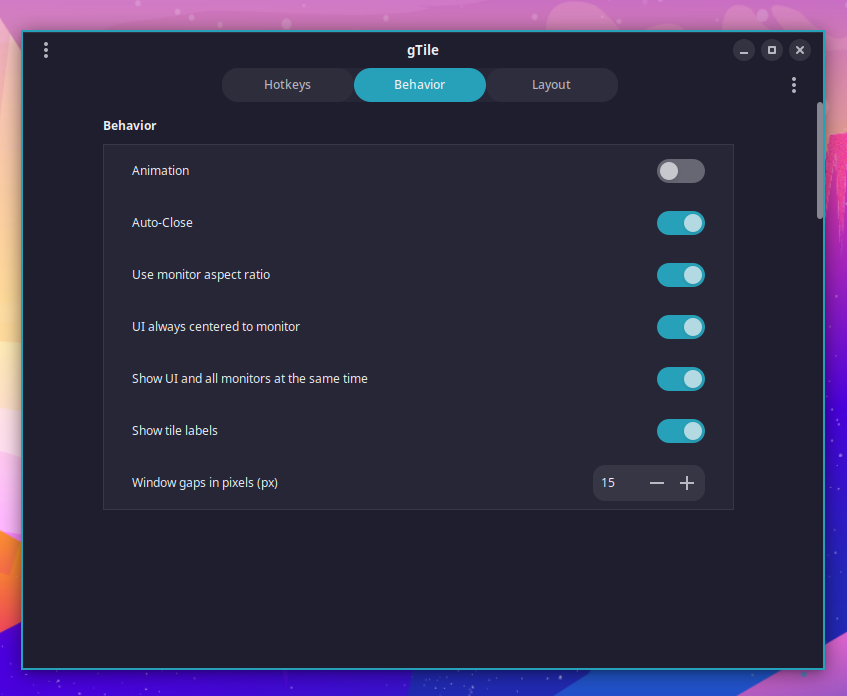
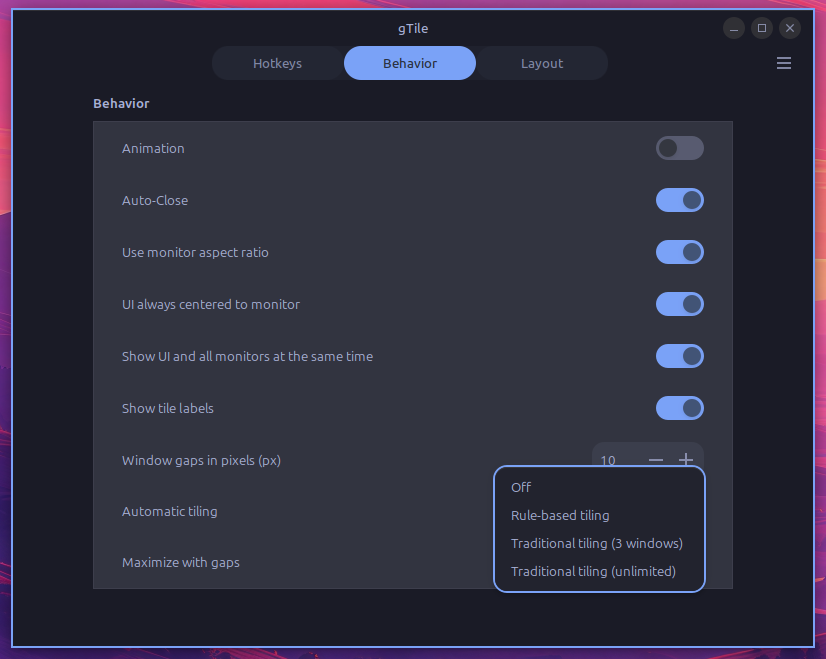
4.5.0

diff --git a/docs/virtualization.md b/docs/virtualization.md
@@ -1,6 +1,6 @@
 ## Virtualization
 
-If you'd like to run a virtual machine (VM) on your OhMyDebn installation, you can use Boxes or Virtual Machine Manager. [Boxes](https://apps.gnome.org/Boxes/) is simpler and is the recommended option for most users. If you need more flexibility, then consider [Virtual Machine Manager](https://virt-manager.org/).
+If you'd like to run a virtual machine (VM) on your OhMyDebn installation, you can use Boxes or Virtual Machine Manager. [Boxes](https://apps.gnome.org/Boxes/) is the simpler of the two, but that simplicity comes from deliberately limited control - it's a good fit for spinning up a single VM every now and then, not much more. For anything beyond that (multiple VMs, snapshot management, custom hardware configuration, or any other fine-grained control), use [Virtual Machine Manager](https://virt-manager.org/) instead.
 
 ## Boxes
 
@@ -43,4 +43,10 @@ Once you've created a VM, if you want to create a snapshot then we recommend set
 
 Virtual Machine Manager is set up to use an unprivileged, per-user connection (`qemu:///session`) rather than the traditional system-wide one. This means there's no `Virtual network 'default'` (NAT) option when creating a VM — when you reach the network selection step, choose `Usermode networking` instead.
 
-By default, `Usermode networking` uses QEMU's older built-in SLIRP driver. The `passt` package is installed automatically alongside Virtual Machine Manager and offers substantially better throughput, but it isn't used automatically — libvirt still defaults to SLIRP even with `passt` installed. To use `passt`, either create the VM with `virt-install --network type=passt` instead of the graphical wizard, or edit the VM's network device XML afterward (`virsh --connect qemu:///session edit <vm-name>`) and add `<backend type="passt"/>` inside the `<interface type="user">` element.
+By default, `Usermode networking` uses QEMU's older built-in SLIRP driver. The `passt` package is installed automatically alongside Virtual Machine Manager and offers substantially better throughput, but it isn't used automatically — libvirt still defaults to SLIRP even with `passt` installed.
+
+To upgrade an existing VM to `passt`, open the OhMyDebn menu and select `Virtualization` - `Virtual Machine Networking`. This lists every VM on the system (whether it was created with Virtual Machine Manager or Boxes) along with its current networking backend, and lets you upgrade any VM that's still using SLIRP with one click. The VM must be shut off first, since a networking backend change only takes effect the next time it starts.
+
+![OhMyDebn Virtual Machine Networking](https://raw.githubusercontent.com/dougburks/ohmydebn-docs/refs/heads/main/images/ohmydebn-virtualization-passt-upgrade.png)
+
+Alternatively, if you're creating a new VM from the command line, you can use `virt-install --network type=passt` from the start instead of the graphical wizard.

diff --git a/docs/installation.md b/docs/installation.md
@@ -16,12 +16,17 @@ bash install.sh
 
 By default, the installation script leaves existing packages like Firefox, Thunderbird, and LibreOffice in place. The installation script supports the following options:
 
-- `--power-user` - removes optional apps that ship on the base Debian 13 Cinnamon ISO (Firefox, LibreOffice, etc.) and installs a curated set of power-user extras: Boxes, Brave Origin, Claude Code, GIMP, OpenCode, Podman, keepassxc-minimal, rclone, openssh-server, pdftk-java, rsync, ethtool, traceroute, lshw, shellcheck, and iperf3. It also enables the [screen magnifier](screen-magnifier.md). On Kali Linux, Firefox is left in place even with this option since Kali doesn't ship an alternative browser by default.
+- `--power-user` - removes optional apps that ship on the base Debian 13 Cinnamon ISO (Firefox, LibreOffice, etc.) and installs a curated set of power-user extras: [Virtual Machine Manager](virtualization.md#virtual-machine-manager), Brave Origin, Claude Code, GIMP, OpenCode, Podman, keepassxc-minimal, rclone, openssh-server, pdftk-java, rsync, ethtool, traceroute, lshw, shellcheck, and iperf3. It also enables the [screen magnifier](screen-magnifier.md). On Kali Linux, Firefox is left in place even with this option since Kali doesn't ship an alternative browser by default.
 - `--yes` - skips every confirmation prompt for unattended installs (for example, scripted or automated provisioning). Everything the prompts warn about still happens; this only removes the pause to read them, so make sure you understand those warnings before using it.
 
 Example:
 ```
 bash install.sh --power-user
+```
+
+If you didn't use `--power-user` during installation but want to apply that same profile later, you don't need to reinstall - just run this from a [terminal](terminal.md) on an already-installed system:
+```
+ohmydebn-power-user-install
 ```
 ## Alternative installations
 
@@ -32,6 +37,10 @@ Instead of starting from a Debian Live 13 Cinnamon ISO image, an alternative is 
 ### Linux Mint Debian Edition 7
 
 Linux Mint Debian Edition (LMDE) 7 is based on Debian 13 and our installer allows for installation on LMDE 7.
+
+### Linux Mint 22
+
+Regular Linux Mint 22.x (the Ubuntu-based edition, on x86_64 hardware) is also supported. Once you're connected to the Internet, run our installer as shown above and it will detect Mint 22 and continue on with OhMyDebn installation.
 
 ### Kali Linux
 

diff --git a/docs/window-tiling.md b/docs/window-tiling.md
@@ -27,6 +27,7 @@ To configure gTile:
 - go to System Settings -> Extensions
 - next to gTile, click the Configure button
 - click the Behavior tab
+- from here you can adjust the window gap size, and enable Automatic tiling or Maximize with gaps (see below)
 
 ![OhMyDebn gTile settings](https://raw.githubusercontent.com/dougburks/ohmydebn-docs/refs/heads/main/images/ohmydebn-gtile-settings.png)
 
@@ -50,3 +51,16 @@ For example, to lay out windows like in the following screenshot:
 - Press `Super + F` to start the file manager and then press `Ctrl + Shift + 3` to tile to the lower right corner.
 
 ![OhMyDebn gTile window tiling with gaps](https://raw.githubusercontent.com/dougburks/ohmydebn-docs/refs/heads/main/images/ohmydebn-tiling.png)
+
+## Automatic Tiling
+
+In addition to the manual tiling options above, gTile can automatically place windows for you as they open - no hotkey required. Configure this from the same Behavior tab covered above, using the **Automatic tiling** dropdown:
+
+- **Off** (the default) - nothing is tiled automatically; only the manual hotkeys above apply.
+- **Rule-based tiling** - many of OhMyDebn's own hotkey-launched apps (like [cliamp](media.md) and [SO-CRATES](cybersecurity.md)) are automatically placed in a sensible spot as soon as they open.
+- **Traditional tiling (3 windows)** - every new window is automatically split into a tiling layout, cycling through up to 3 windows before starting over - similar to a classic tiling window manager.
+- **Traditional tiling (unlimited)** - the same idea, but keeps splitting the screen for as many windows as you open instead of cycling back to the start.
+
+## Maximize with Gaps
+
+If you'd rather your maximized windows keep the same gap as your other tiled windows instead of filling the screen edge-to-edge, enable **Maximize with gaps** on the same Behavior tab. Once enabled, clicking a window's maximize button (or double-clicking its titlebar, or pressing `Super + PageUp`) leaves a gap around the window instead of a true edge-to-edge maximize. Doing it again restores the window to its original size and position.

diff --git a/docs/utilities.md b/docs/utilities.md
@@ -22,6 +22,14 @@ To monitor your system performance, launch btop via Cinnamon menu or via [hotkey
 
 ![OhMyDebn btop](https://raw.githubusercontent.com/dougburks/ohmydebn-docs/refs/heads/main/images/ohmydebn-btop.png)
 
+## Speed Test
+
+To test your network or disk speed, open the OhMyDebn menu and choose `Trigger` - `Speed Test` - `Network Speed Test` or `Disk Speed Test`. Each shows a live dial readout while it measures, running a download/read pass followed by an upload/write pass. If you'd rather see the results in a [terminal](terminal.md) instead, run `ohmydebn-network-speedtest` or `ohmydebn-disk-speedtest`.
+
+![OhMyDebn network speed test](https://raw.githubusercontent.com/dougburks/ohmydebn-docs/refs/heads/main/images/ohmydebn-network-speedtest.png)
+
+![OhMyDebn disk speed test](https://raw.githubusercontent.com/dougburks/ohmydebn-docs/refs/heads/main/images/ohmydebn-disk-speedtest.png)
+
 ## Deskflow
 
 [Deskflow](https://github.com/deskflow/deskflow) is available as an optional installation. You can install via OhMyDebn menu (Install->Utilities). You can then run via menu and share your keyboard and mouse with other systems running Deskflow.

diff --git a/docs/faq.md b/docs/faq.md
@@ -33,6 +33,8 @@ Linux Mint is great, but there are a few reasons why the project defaults to van
 
 This doesn't apply to Linux Mint Debian Edition (LMDE), though - it's already Debian-based and already ships Cinnamon, so it's just as valid a starting point as vanilla Debian. Our [installer supports installing directly onto LMDE 7](installation.md#linux-mint-debian-edition-7) if you'd rather start there and keep Mint's extras.
 
+The x86-only limitation above does still apply to regular (Ubuntu-based) Linux Mint, but if you're already on x86_64 hardware and would rather keep Mint's extras than start from vanilla Debian, our [installer also supports installing directly onto Linux Mint 22](installation.md#linux-mint-22).
+
 
 ## What is the relationship between OhMyDebn and Security Onion?
 

diff --git a/docs/warnings.md b/docs/warnings.md
@@ -1,6 +1,6 @@
 !!! warning
     - OhMyDebn is intended for a clean new installation
-    - OhMyDebn will make changes to your APT configuration
+    - OhMyDebn will make changes to your APT configuration. Any third-party repository we add (Brave, Claude Code, etc.) is restricted via APT pinning to only the specific packages it's needed for, so it can't silently override or replace unrelated packages elsewhere on your system.
     - OhMyDebn will not remove any existing apps by default, but if you use the [`--power-user` option](installation.md#installation-options), it will remove apps like FireFox, Thunderbird, LibreOffice, and others
     - OhMyDebn is a fun project and is not officially supported. If it breaks your system, you get to keep both pieces!
 

diff --git a/docs/requirements.md b/docs/requirements.md
@@ -3,7 +3,7 @@ OhMyDebn requires the following:
 - x86_64 or ARM architecture
 - 2GB RAM MINIMUM (more is obviously better)
 - 2 CPU cores MINIMUM (more is obviously better)
-- Debian 13, or a supported derivative like Linux Mint Debian Edition 7 or Kali Linux (Rolling)
+- Debian 13, or a supported derivative like Linux Mint Debian Edition 7, Linux Mint 22, or Kali Linux (Rolling)
 - non-root user account with sudo privileges
 - curl
 - ability to connect to Github, package repos, and other Internet sites
